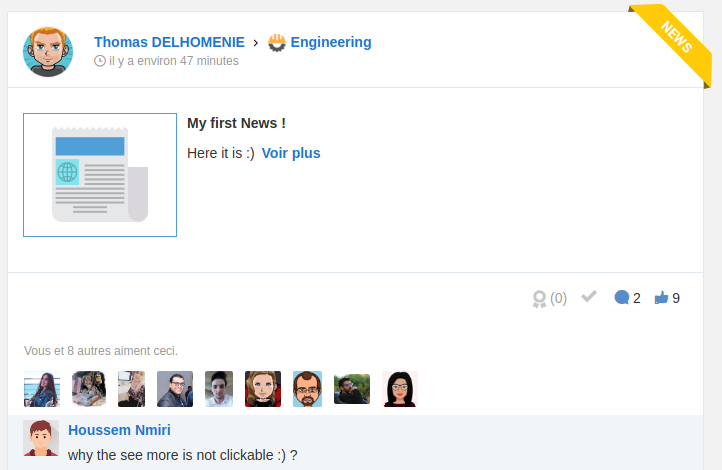
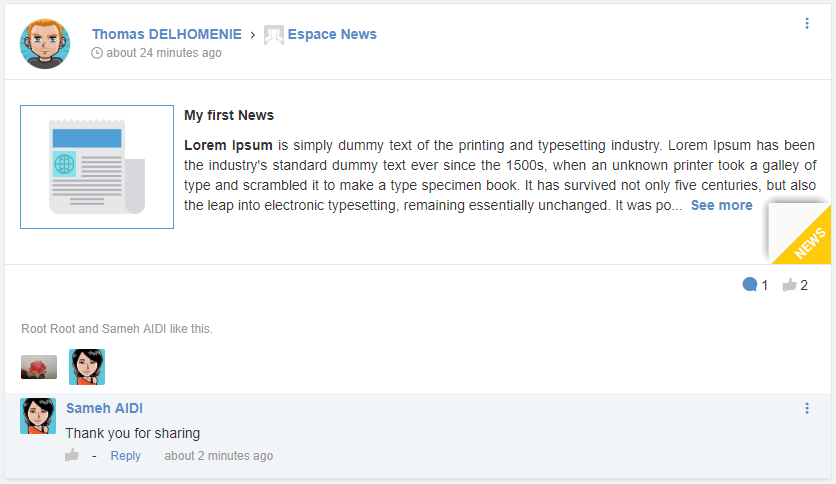
Documentation US01-02-03 updates

diff --git a/docs/GettingStarted.rst b/docs/GettingStarted.rst
@@ -380,8 +380,8 @@ There are 3 main divisions in the **Social Intranet** homepage:
 
       -  Home: To come back to your social intranet homepage from any
          page.
-
-.. _People_Directory:         
+         
+.. _People_Directory:          
 
       -  People: To display the whole list of the platform users. You
          can manage your connections, search for users using different
@@ -941,6 +941,9 @@ Using the Activity Stream
 
  * :ref:`Sharing in the activity stream <Share-AS>`
    Steps to post status updates through the **Activity Stream**. 
+
+ * :ref:`Sharing a news in the activity stream <Sharing-news>`
+   Steps to post a news in the **Activity Stream**.
    
  * :ref:`The formatting toolbar in activity messages and comments <Formatting-toolbar>`
    This sections describes possible actions with the microblog toolbar.     
@@ -1038,7 +1041,7 @@ other space members (in the space's activity stream):
 .. tip:: When you already started to type a text message, add attachement or link to an activity post 
          and that the page will be refreshed, a confirmation popup appears to warn you about the unsaved changes.
          
-         -  In Chrome browser: 
+         -  In chrome browser: 
          
                 |image154|
          
@@ -1145,6 +1148,47 @@ the link.
 
     .. note:: If the activity composer is empty, the |image78| button still grey and unclickable until adding something (a text message, a link or a file) in the activity composer area.
 
+.. _Sharing-news:
+
+	
+Sharing a news in the activity stream
+~~~~~~~~~~~~~~~~~~~~~~~~~~~~~~~~~~~~~~
+	
+From a space's acivity stream, you are able to share a news with the space’s members. 
+Publishing a news allows you to easily write, broadcast, pin and share communication content.
+
+
+Sharing a simple news from short form
+--------------------------------------
+
+To share an article with other space’s members, click on News tab from the activity composer, the tab contains :
+
+
+- A **Title** field :  Allows you to enter the news title. The title should not exceed 150 characters: Beyond that limit you will not be allowed to write.
+
+- A **Content** field : Allows you to enter the content of the News. No limitation for the number of characters.
+
+- A **Pin article** Check box.
+
+- A **More icon** with a tooltip “more options”: Permits to open the creation full form.
+
+- A **Post** button : Disabled by default until the two fields “Title” and “Content” are filled.
+
+|image156|
+
+
+Then type your News Title and content in the appropriate fields and click on Post button
+
+The article is shared into the space's activity stream.
+
+|image158|
+
+
+.. note:: The |image157| button is grey and unclickable until the mandatory fields *title* and *content* are filled. 
+         
+		  
+
+		
 .. _Formatting-toolbar:
 
 The formatting toolbar in activity messages and comments
@@ -1965,4 +2009,6 @@ to display the original timestamp of the comment.
 .. |image153| image:: images/platform/limit_comment.png
 .. |image154| image:: images/platform/confirmation_popup_Chrome.png
 .. |image155| image:: images/platform/Confirmation_popup_FF.png
-
+.. |image156| image:: images/news/composer_news.png
+.. |image157| image:: images/news/post.png
+.. |image158| image:: images/news/shared_news.png

diff --git a/docs/index.rst b/docs/index.rst
@@ -38,7 +38,6 @@ Discover also `eXo UX Guidelines <http://exoplatform.github.io/ux-guidelines/>`_
    GettingStarted
    PersonalApplications
    ManageTasks
-   News
    Chat
    webconferencing
    Manage-Space
